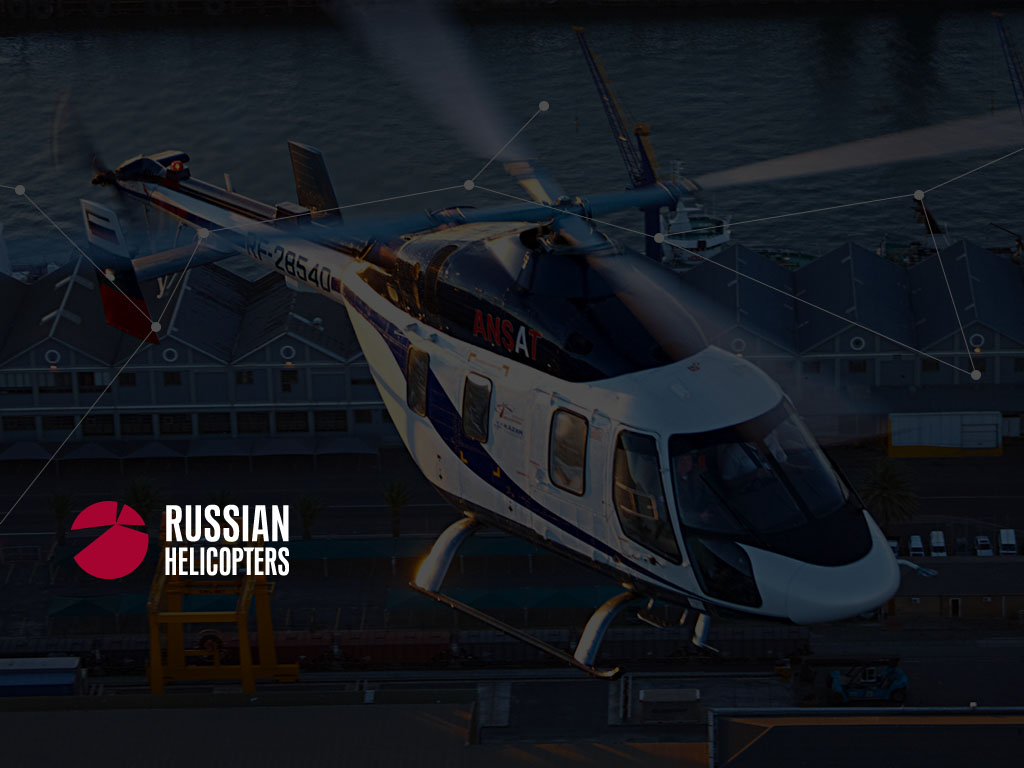
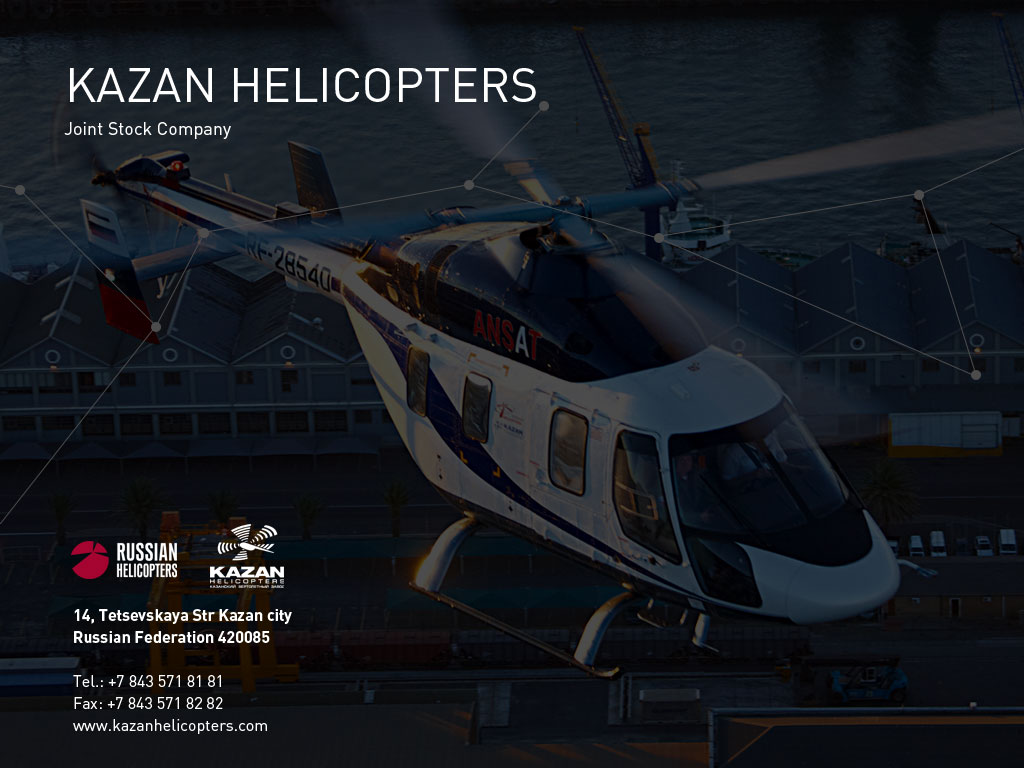
fixed

Changed region(s): [[0.0625, 0.6562, 0.2812, 0.8438], [0.0625, 0.0625, 0.5312, 0.1875], [0.0625, 0.875, 0.25, 0.9688]]

diff --git a/presentation/bkk.html b/presentation/bkk.html
@@ -38,7 +38,7 @@
 						<p class="text text-04">Since 2004, the Bread-baking and Confectionery Plant of Kazan has been annually certified for compliance with the <br /> requirements of the international standards in management and quality, ISO 9001 and ISO 22000.</p>
 						<p class="text text-05">Another standard that is strategically important for us to meet is the Halal Production requirements. Since 2005, <br /> when we started certifying our products for the Muslim market, the number of Halal items we produce has reached <br /> 70 and counting. The compliance with Halal requirements is guaranteed by the Committee on the standard “Halal” in <br /> the Spiritual Administration of Muslims of Tatarstan. We are convinced that Halal is a very significant quality mark for <br /> millions of our customers, and we proudly introduce several new Halal-certified items every year.</p>
 
-						<a href="#more-details-2" class="more-min"></a>
+						<a href="#more-details-2" class="more-min" style="background: none;"></a>
 							<div id="more-details-2" style="display:none;" class="more-text">
 								<div class="subwrapper scrollable">
 								<div class="header-top">

diff --git a/presentation/kazan-helicopters.html b/presentation/kazan-helicopters.html
@@ -18,16 +18,7 @@
 						<h1 class="title">KAZAN HELICOPTERS</h1>
 						<h3 class="small-title">Joint Stock Company</h3>
 
-						<div class="address">
-							<p>14, Tetsevskaya Str Kazan city </p>
-							<p>Russian Federation 420085 </p>
-						</div>
 
-						<div class="tel">
-							<p>Tel.: +7 843 571 81 81</p>
-							<p>Fax : +7 843 571 82 82</p>
-							<p class="site">www.kazanhelicopters.com</p>
-						</div>
 							<a class="hand-min" href="index.html#industry"></a>
 					</li>
 					<li class="slide-01">

diff --git a/presentation/tida-projets.html b/presentation/tida-projets.html
@@ -2,7 +2,7 @@
 <html>
 	<head>
         <meta charset="utf-8" />
-        <meta name="format-detection" content="telephone=no">
+		<meta name="format-detection" content="telephone=no">
         <meta name="viewport" content="initial-scale = 1,user-scalable=no,maximum-scale=1.0">
 		<title>Tatarstan Investment Development Agency</title>
         <link type="text/css" href="css/screen.css" rel="stylesheet" />

diff --git a/presentation/css/screen.css b/presentation/css/screen.css
@@ -892,6 +892,9 @@ a.home {
 .tatarstan-universiada .slide-07 {
 	background: url('../assets/pages/tatarstan-universiada/7.png') no-repeat; }
 
+.tatarstan-universiada .slide-07-2 {
+	background: url('../assets/pages/tatarstan-universiada/7-2.png') no-repeat; }
+
 .tatarstan-universiada .slide-08 {
 	background: url('../assets/pages/tatarstan-universiada/8.png') no-repeat; }
 

diff --git a/presentation/index.html b/presentation/index.html
@@ -72,6 +72,9 @@
 							<div class="gallery-wrap" data-media="videos" data-preview-num="4" data-subdir="2"></div>
 							<a class="home" href="/"></a>
 						</li>
+						<li class="slide-07-2">
+							<a class="home" href="/"></a>
+						</li>
 						<li class="slide-08">
 							<a class="home" href="/"></a>
 						</li>

diff --git a/presentation/kazan-summit.html b/presentation/kazan-summit.html
@@ -36,7 +36,7 @@
 
 						<li class="slide-03">
 
-							<div class="video-ico"></div>
+							<div class="photo-ico"></div>
 							<div class="gallery-wrap" data-media="videos" data-preview-num="4" ></div>
 							<a class="home" href="index.html#industry"></a>
 						</li>
